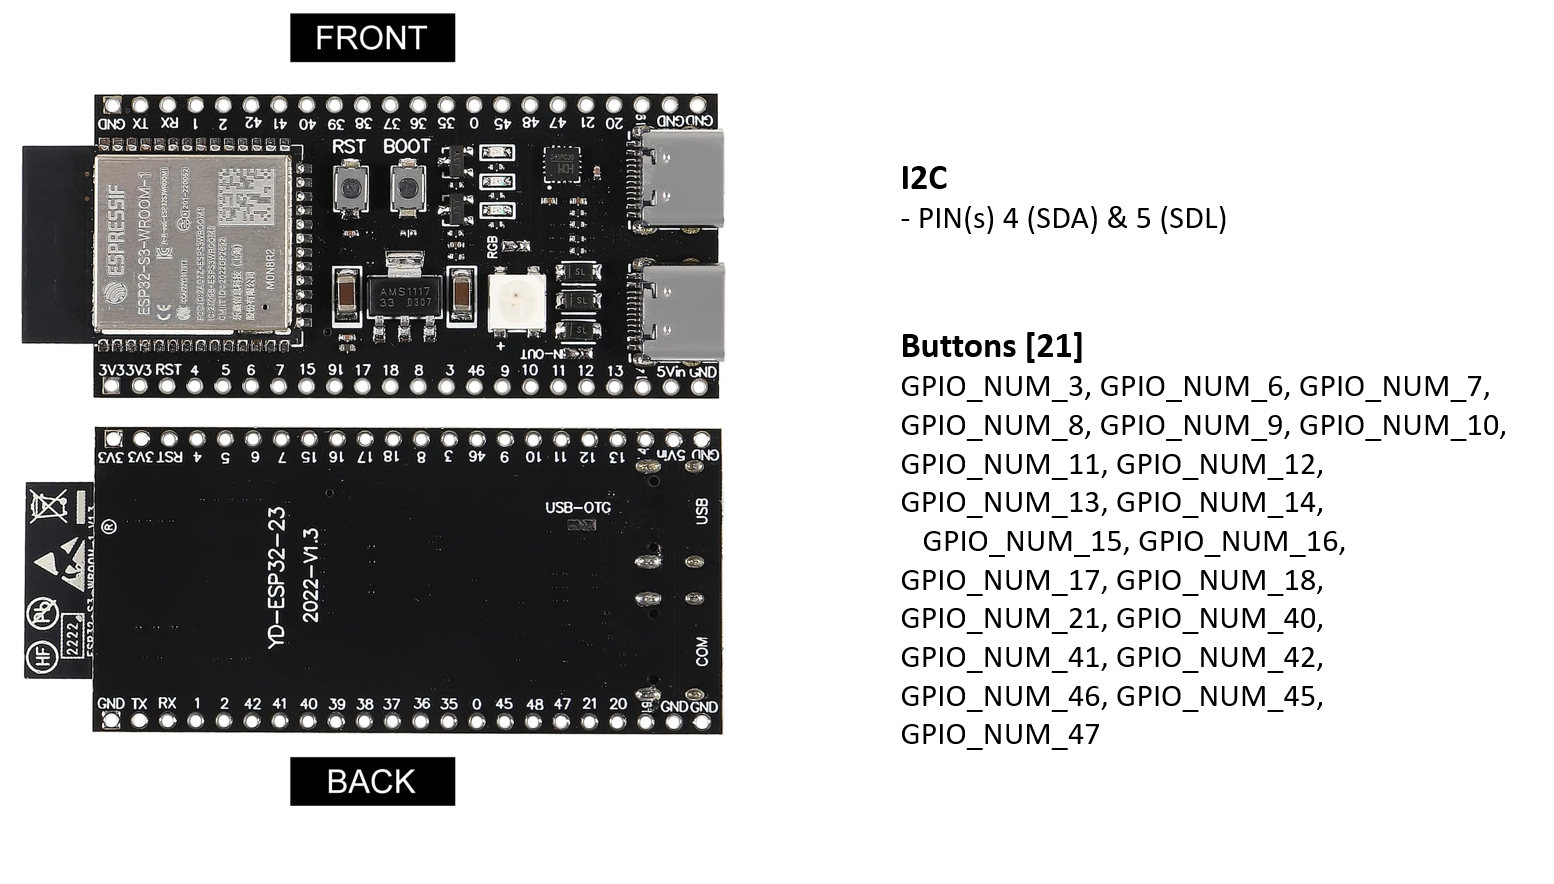
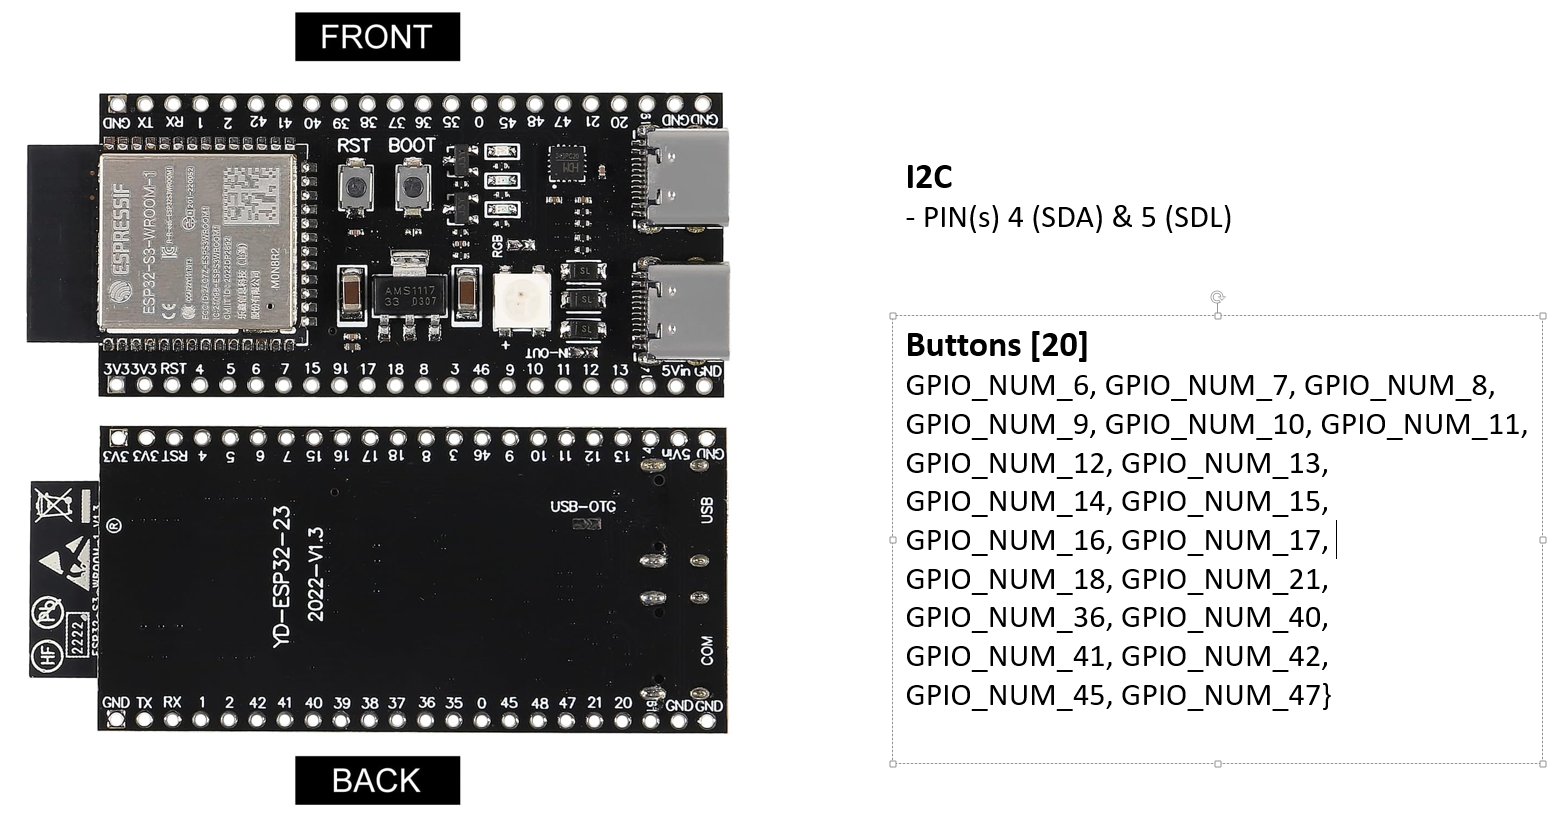
fixed io pins. updated docs

diff --git a/pincommander-controller/main/main.c b/pincommander-controller/main/main.c
@@ -31,14 +31,14 @@
 
 static const char *TAG = "main.c";
 
-// on esp32-s3 - GPIO 1, GPIO2 (Nothing), and GPIO 20, GPIO 19 (causes reboot when grounded?), GPIO 48 appears to be connected to NEOPIXEL don't work.
-gpio_num_t pins[] = {GPIO_NUM_3, GPIO_NUM_6, GPIO_NUM_7, GPIO_NUM_8, GPIO_NUM_9, GPIO_NUM_10, GPIO_NUM_11, GPIO_NUM_12, GPIO_NUM_13, GPIO_NUM_14,
+// on esp32-s3 - GPIO 1, GPIO2, GPIO_NUM_3, GPIO_NUM_46 (Nothing), and GPIO 20, GPIO 19 (causes reboot when grounded?), GPIO 48 appears to be connected to NEOPIXEL don't work.
+gpio_num_t pins[] = {GPIO_NUM_6, GPIO_NUM_7, GPIO_NUM_8, GPIO_NUM_9, GPIO_NUM_10, GPIO_NUM_11, GPIO_NUM_12, GPIO_NUM_13, GPIO_NUM_14,
                      GPIO_NUM_15, GPIO_NUM_16, GPIO_NUM_17, GPIO_NUM_18, GPIO_NUM_21, GPIO_NUM_36, GPIO_NUM_40, GPIO_NUM_41, GPIO_NUM_42, GPIO_NUM_45, GPIO_NUM_47};
 
 // windows button HID starts at 1.  e.g. 0=1, 1=2, .. on windows
 uint32_t buttons[] = {GAMEPAD_BUTTON_0, GAMEPAD_BUTTON_1, GAMEPAD_BUTTON_2, GAMEPAD_BUTTON_3, GAMEPAD_BUTTON_4, GAMEPAD_BUTTON_5, GAMEPAD_BUTTON_6, GAMEPAD_BUTTON_7,
                       GAMEPAD_BUTTON_8, GAMEPAD_BUTTON_9, GAMEPAD_BUTTON_10, GAMEPAD_BUTTON_11, GAMEPAD_BUTTON_12, GAMEPAD_BUTTON_13, GAMEPAD_BUTTON_14, GAMEPAD_BUTTON_15, GAMEPAD_BUTTON_16,
-                      GAMEPAD_BUTTON_17, GAMEPAD_BUTTON_18, GAMEPAD_BUTTON_19, GAMEPAD_BUTTON_20};
+                      GAMEPAD_BUTTON_17, GAMEPAD_BUTTON_18, GAMEPAD_BUTTON_19};
 
 /* WiFi Settings for AP Mode*/
 #define ESP_WIFI_SSID "pincommander"

diff --git a/README.md b/README.md
@@ -2,7 +2,7 @@
 ![Overview](docs/media/overview.png)
 The project is made of two seperate components with the following features:
 - Controller (pinCommander-controller)
-  - 21 Button Support (Gamepad HID)
+  - 20 Button Support (Gamepad HID)
   - Nudge support via (Gamepad X/y axis mapping via the MPU6050)
   - Keyboard and Consumer HID
   - Private WiFi network for connecting to other compenents (e.g. the HMI). 
